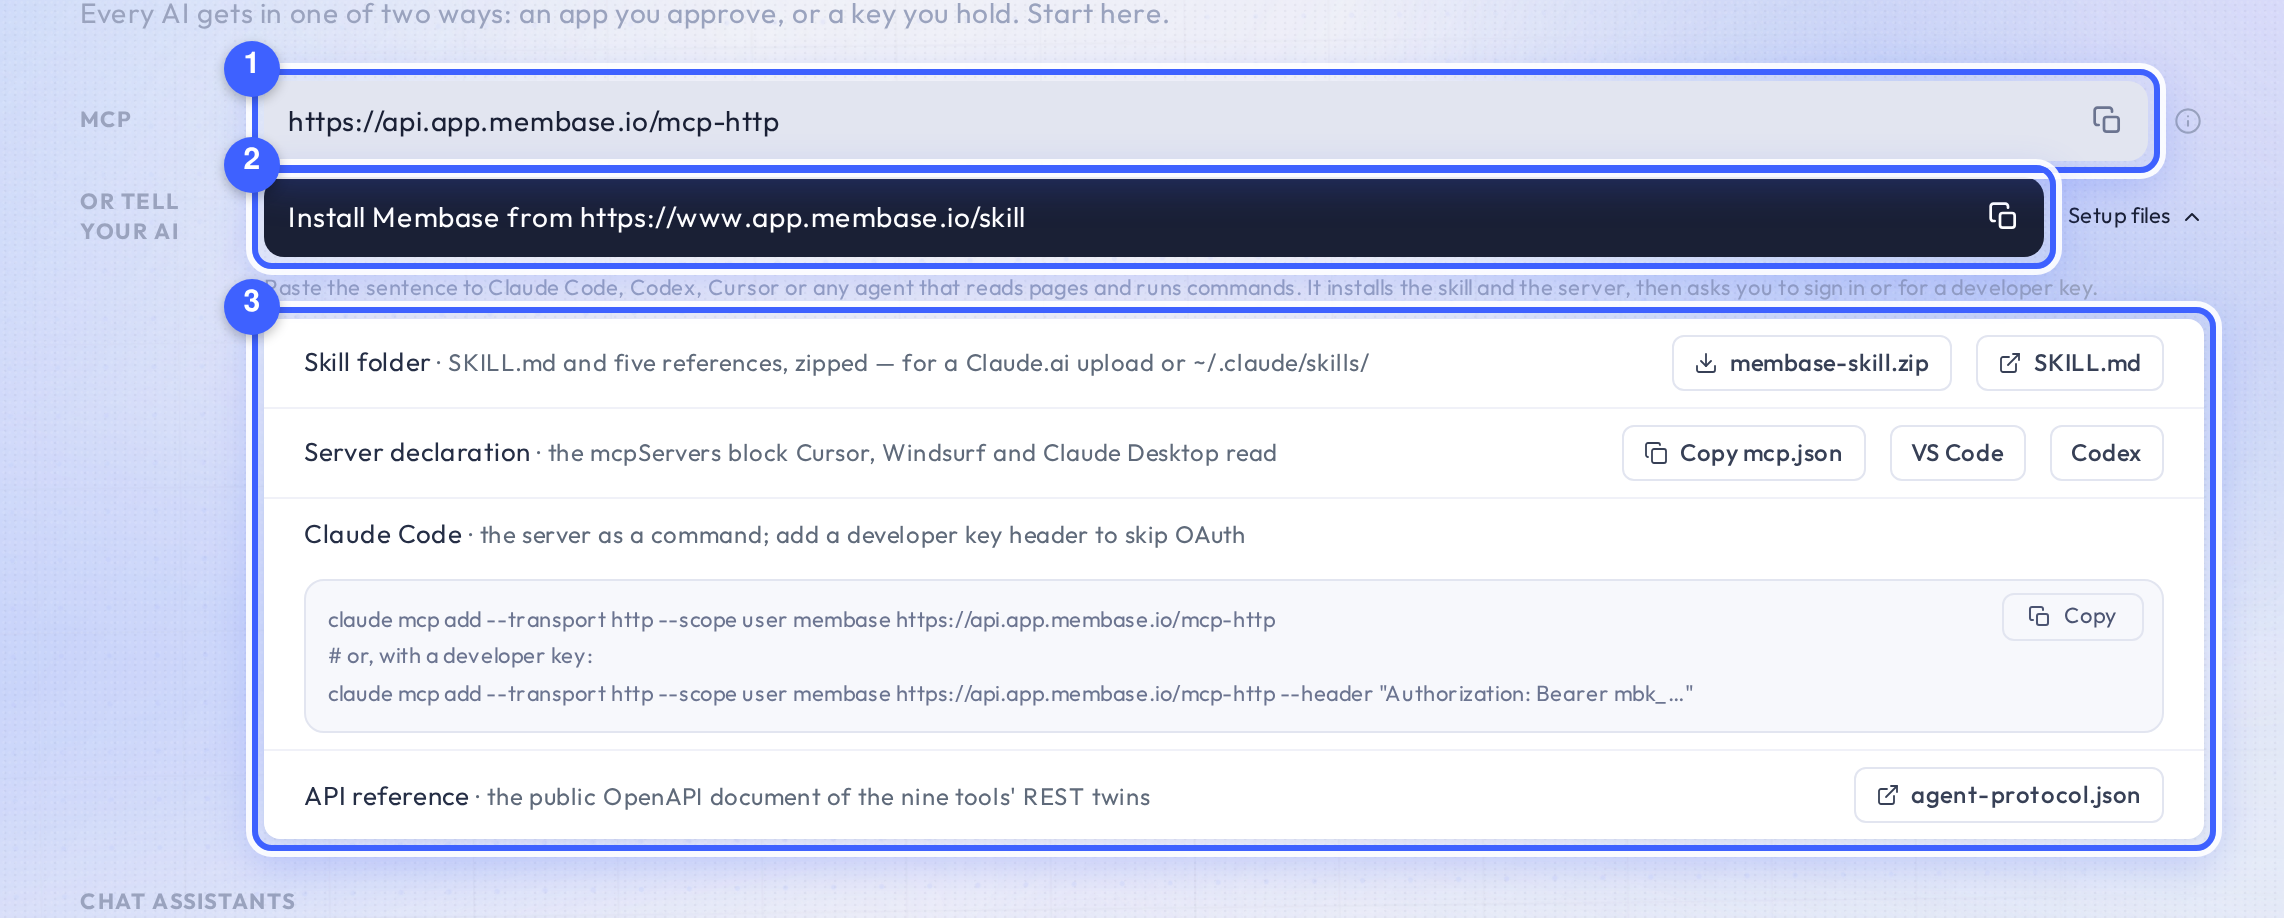
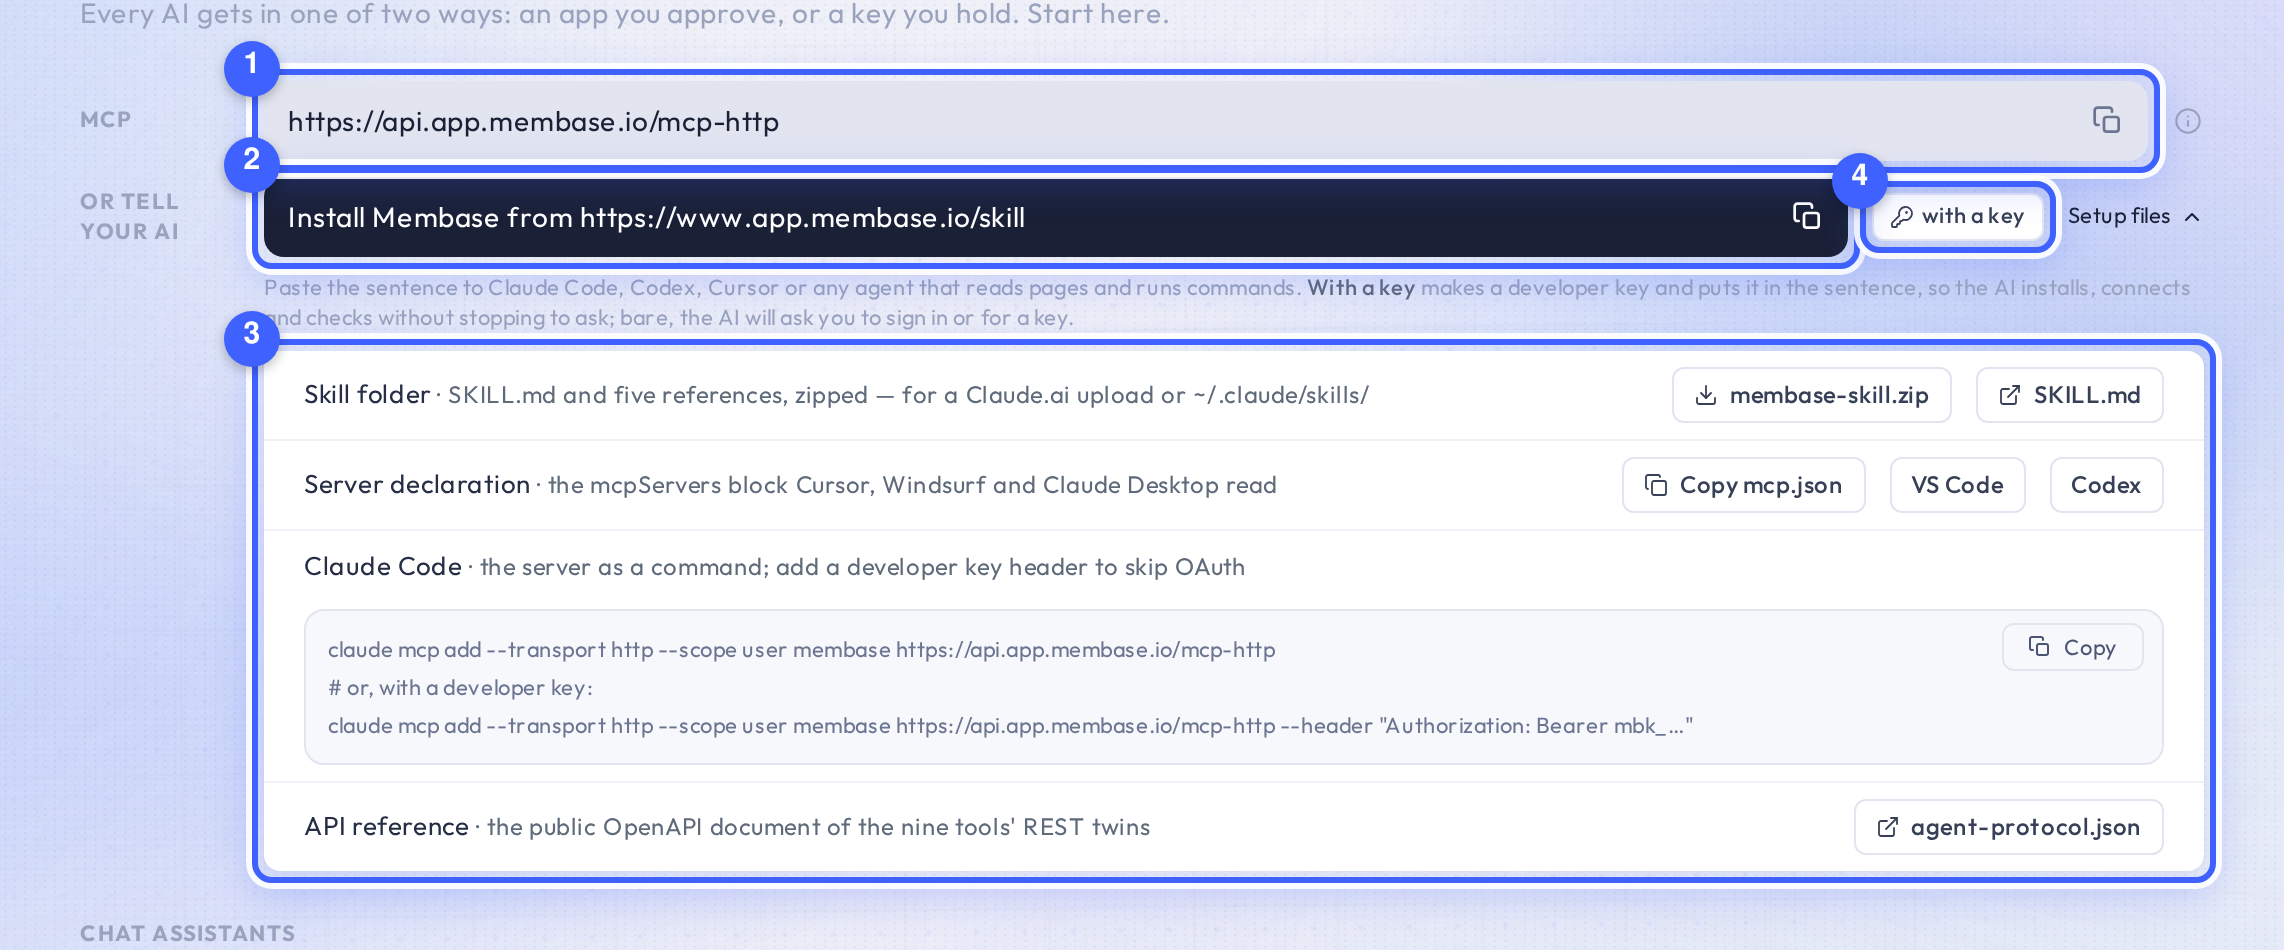
Sync user guide from membase-suites 37502e7c

diff --git a/pages/connect.md b/pages/connect.md
@@ -10,9 +10,11 @@ that order — the two ways to reach the door at the top, the approvals below.
    settings when you set the app up by hand (the tiles below give the steps).
 2. **Or tell your AI.** One sentence — *Install Membase from https://www.app.membase.io/skill* —
    for an AI that can read a page and run commands (Claude Code, Codex, Cursor, Windsurf…).
-   Paste it into the AI: it installs the Membase skill and the server itself, then asks you to
-   sign in or for a developer key. Neither the address nor the sentence grants anything; the
-   AI still ends up on one of the two approvals below.
+   Press **with a key** (4 on the picture below) first: it makes a developer key for the AI and hands you the sentence
+   with the key inside (*… using key mbk_…*). Paste that, and the AI installs the skill, adds
+   the server with the key, and tells you what it can see — without stopping to ask. Pasted
+   bare, the sentence still works, but the AI will stop and ask you to sign in or for a key.
+   Neither the address nor the sentence grants anything by itself; the key is what does.
 3. **The client catalog, by purpose.** *Chat assistants* and *Coding tools*. A dashed tile says
    *Set up*; a solid tile says *Authorized* with the time of its last use and opens the app's
    page. *Your own code* holds **Developer keys**.
@@ -27,19 +29,20 @@ reference.
 
 ## Tell your AI
 
-Paste the sentence into your AI. What happens next is the AI's work, but it always ends in the
-same two places:
+1. Press **with a key**. The **A key for your AI** dialog is the ordinary Create key dialog,
+   pre-filled: name *my AI*, access **Read & write**. Tick the memories it may reach and press
+   **Create key**.
+2. The token screen opens on **Tell your AI**: the sentence with the key inside. Copy it.
+3. Paste it into your AI. It reads the page at that address — the skill's own SKILL.md, which
+   begins with install steps — fetches the skill folder (SKILL.md and five references), adds the
+   MCP server for its client with the key as its header, then lists the memories it may use and
+   tells you the result. An empty list means no memory is switched on for it yet: open the
+   memory and switch it on under **Use in**.
 
-1. The AI reads the page at that address — the skill's own SKILL.md, which begins with install
-   steps — fetches the skill folder (SKILL.md and five references) and adds the MCP server for
-   its client.
-2. It has no access yet, and says so. It asks you which way you want to grant it:
-   - **Sign in** — the AI runs its client's MCP login, your browser opens the approval below,
-     you tick the memories it may read. It will be read-only.
-   - **Developer key** — you make one under **Developer keys** and paste the token to the AI.
-     You pick its access level.
-3. It makes one call to list the memories it may use and tells you the result. An empty list
-   means no memory is switched on for it yet: open the memory and switch it on under **Use in**.
+The key is a normal developer key: it appears under **Developer keys**, where you change its
+reach or access, see what the AI has been calling, and revoke it. If you paste the sentence
+without a key, the AI installs everything, then stops and asks: give it a key, or run your
+client's sign-in yourself (`claude mcp login membase`) for read-only access.
 
 ## Set an app up by hand
 

diff --git a/getting-started/developer-keys.md b/getting-started/developer-keys.md
@@ -44,10 +44,11 @@ The token (1) appears once, in full. Store it now: afterwards the app shows only
 such as `mbk_7f3a92d1…c91e`, which is enough to tell your keys apart and never enough to use
 one.
 
-The same screen gives the token in five shapes (2) — a `curl` call, Python, TypeScript, the
-Claude Code command, and the `mcp.json` block Cursor and VS Code read — and **Send a test
-call** (3) makes one real call with the new key from your browser and reports what came back:
-*Verified*, and how many memories the key can see.
+The same screen gives the token in six shapes (2) — **Tell your AI** (the one sentence that
+makes an AI install Membase with this key, see [Connect](../pages/connect.md#tell-your-ai)), a
+`curl` call, Python, TypeScript, the Claude Code command, and the `mcp.json` block Cursor and
+VS Code read — and **Send a test call** (3) makes one real call with the new key from your
+browser and reports what came back: *Verified*, and how many memories the key can see.
 
 ## Use it
 
